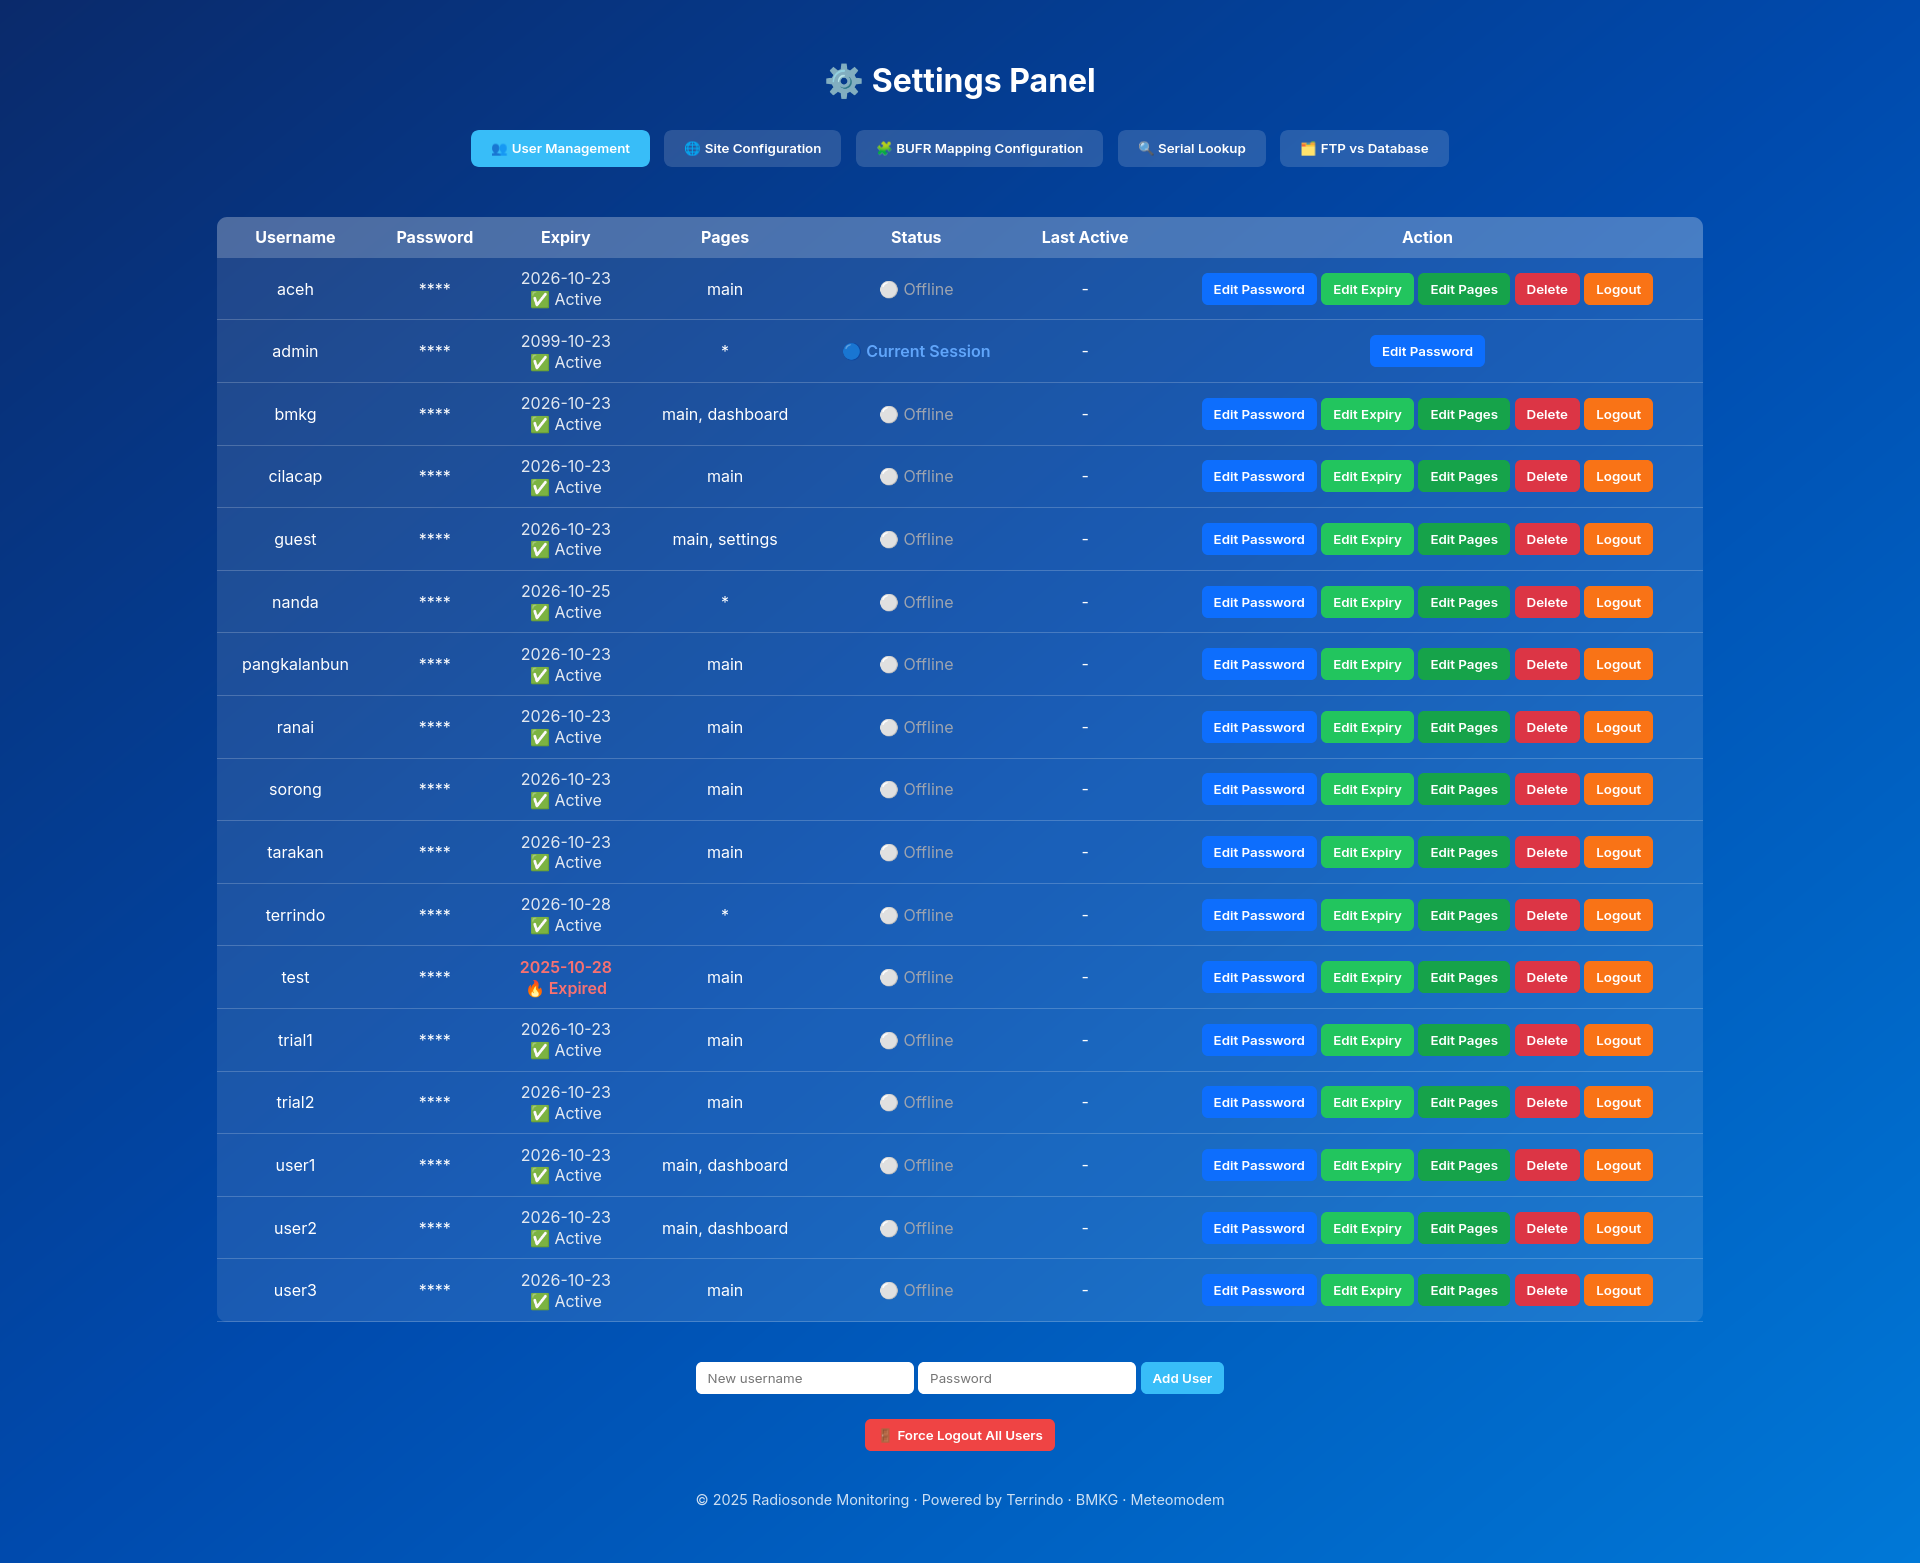
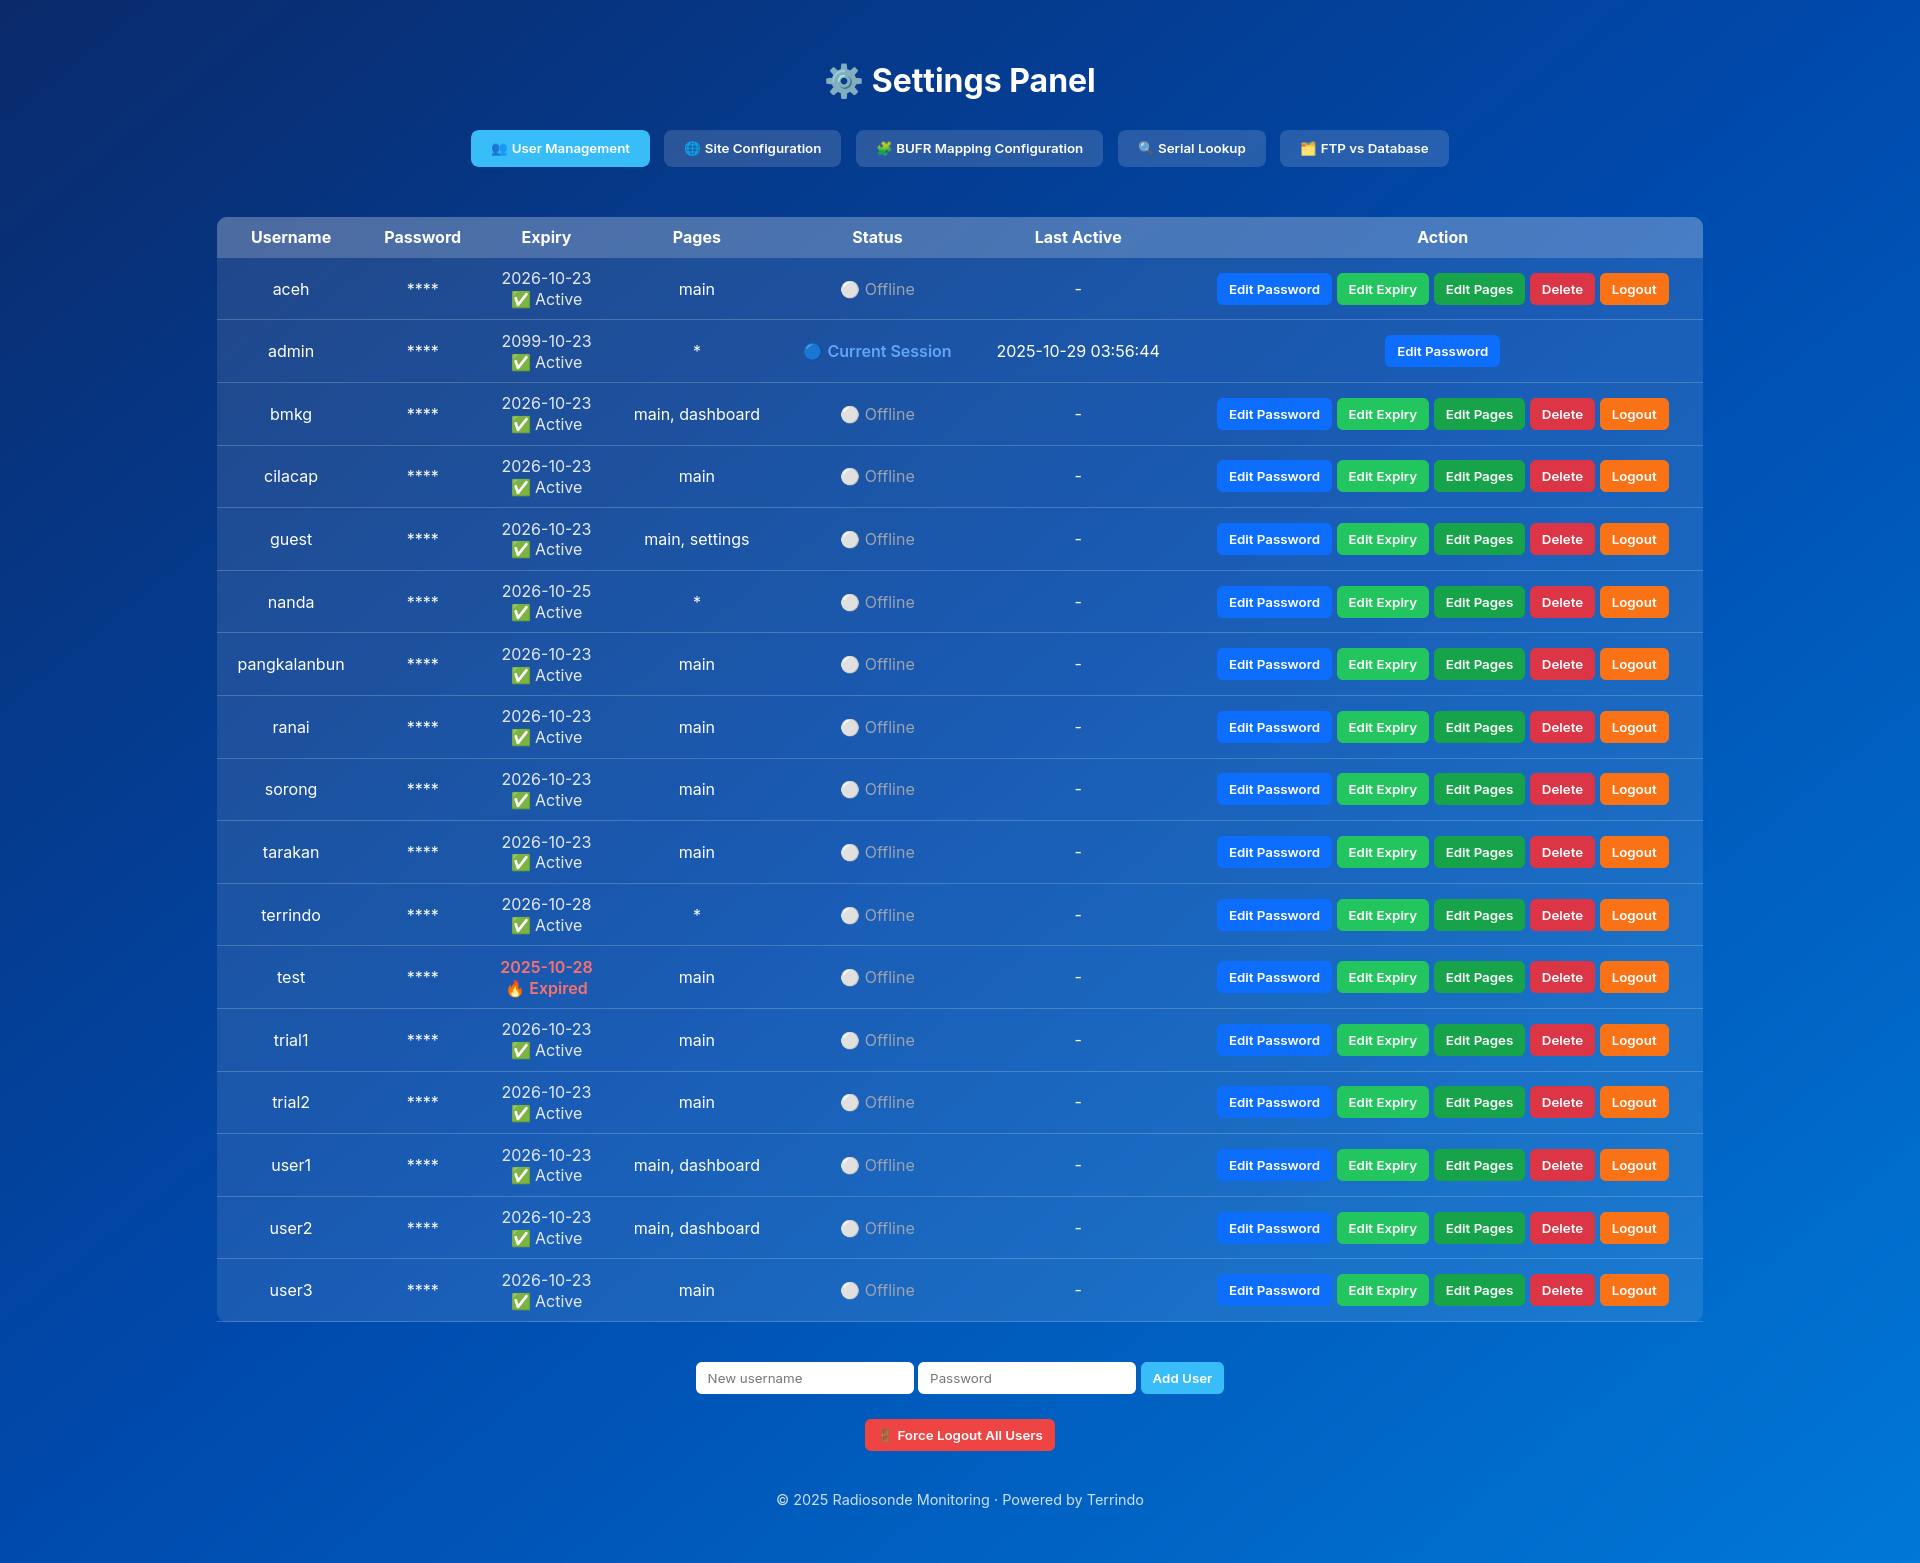
edit user guide

diff --git a/templates/user_guide.html b/templates/user_guide.html
@@ -210,10 +210,13 @@
 
   <!-- MAIN -->
   <main id="guide-container">
-
     <!-- 🔑 LOGIN PAGE -->
     <section class="page active" id="page-login" data-title="Login Page">
       <h2>🔑 LOGIN PAGE — DETAILED GUIDE</h2>
+      <img src="{{ url_for('static', filename='images/guide/login_page.png') }}" 
+           alt="Login Page Preview" 
+           style="width:100%;max-width:900px;border-radius:10px;margin:15px auto;display:block;box-shadow:0 4px 20px rgba(0,0,0,0.3);">
+      
       <p>Halaman login merupakan pintu masuk utama sistem <strong>Radiosonde Monitoring</strong>. 
       Pengguna harus memasukkan kredensial yang valid untuk mendapatkan akses ke seluruh fitur web.</p>
 
@@ -246,7 +249,10 @@
       <img src="{{ url_for('static', filename='images/guide/main_page.png') }}" 
            alt="Main Page Preview" 
            style="width:100%;max-width:900px;border-radius:10px;margin:15px auto;display:block;box-shadow:0 4px 20px rgba(0,0,0,0.3);">
-          
+      <img src="{{ url_for('static', filename='images/guide/card-main.png') }}" 
+           alt="Main Page Preview" 
+           style="width:100%;max-width:900px;border-radius:10px;margin:15px auto;display:block;box-shadow:0 4px 20px rgba(0,0,0,0.3);">
+                    
       <p><strong>Main Page</strong> adalah pusat utama sistem <em>Radiosonde Monitoring</em>, menampilkan peta interaktif Indonesia beserta status real-time dari setiap site pengamatan radiosonde BMKG. Dari sini, pengguna dapat memantau aktivitas site, melihat status “online/offline/inflight/preparing”, dan mengakses seluruh fitur analisis melalui sidebar kiri.</p>
     
       <h3>🧭 Komponen Utama</h3>
